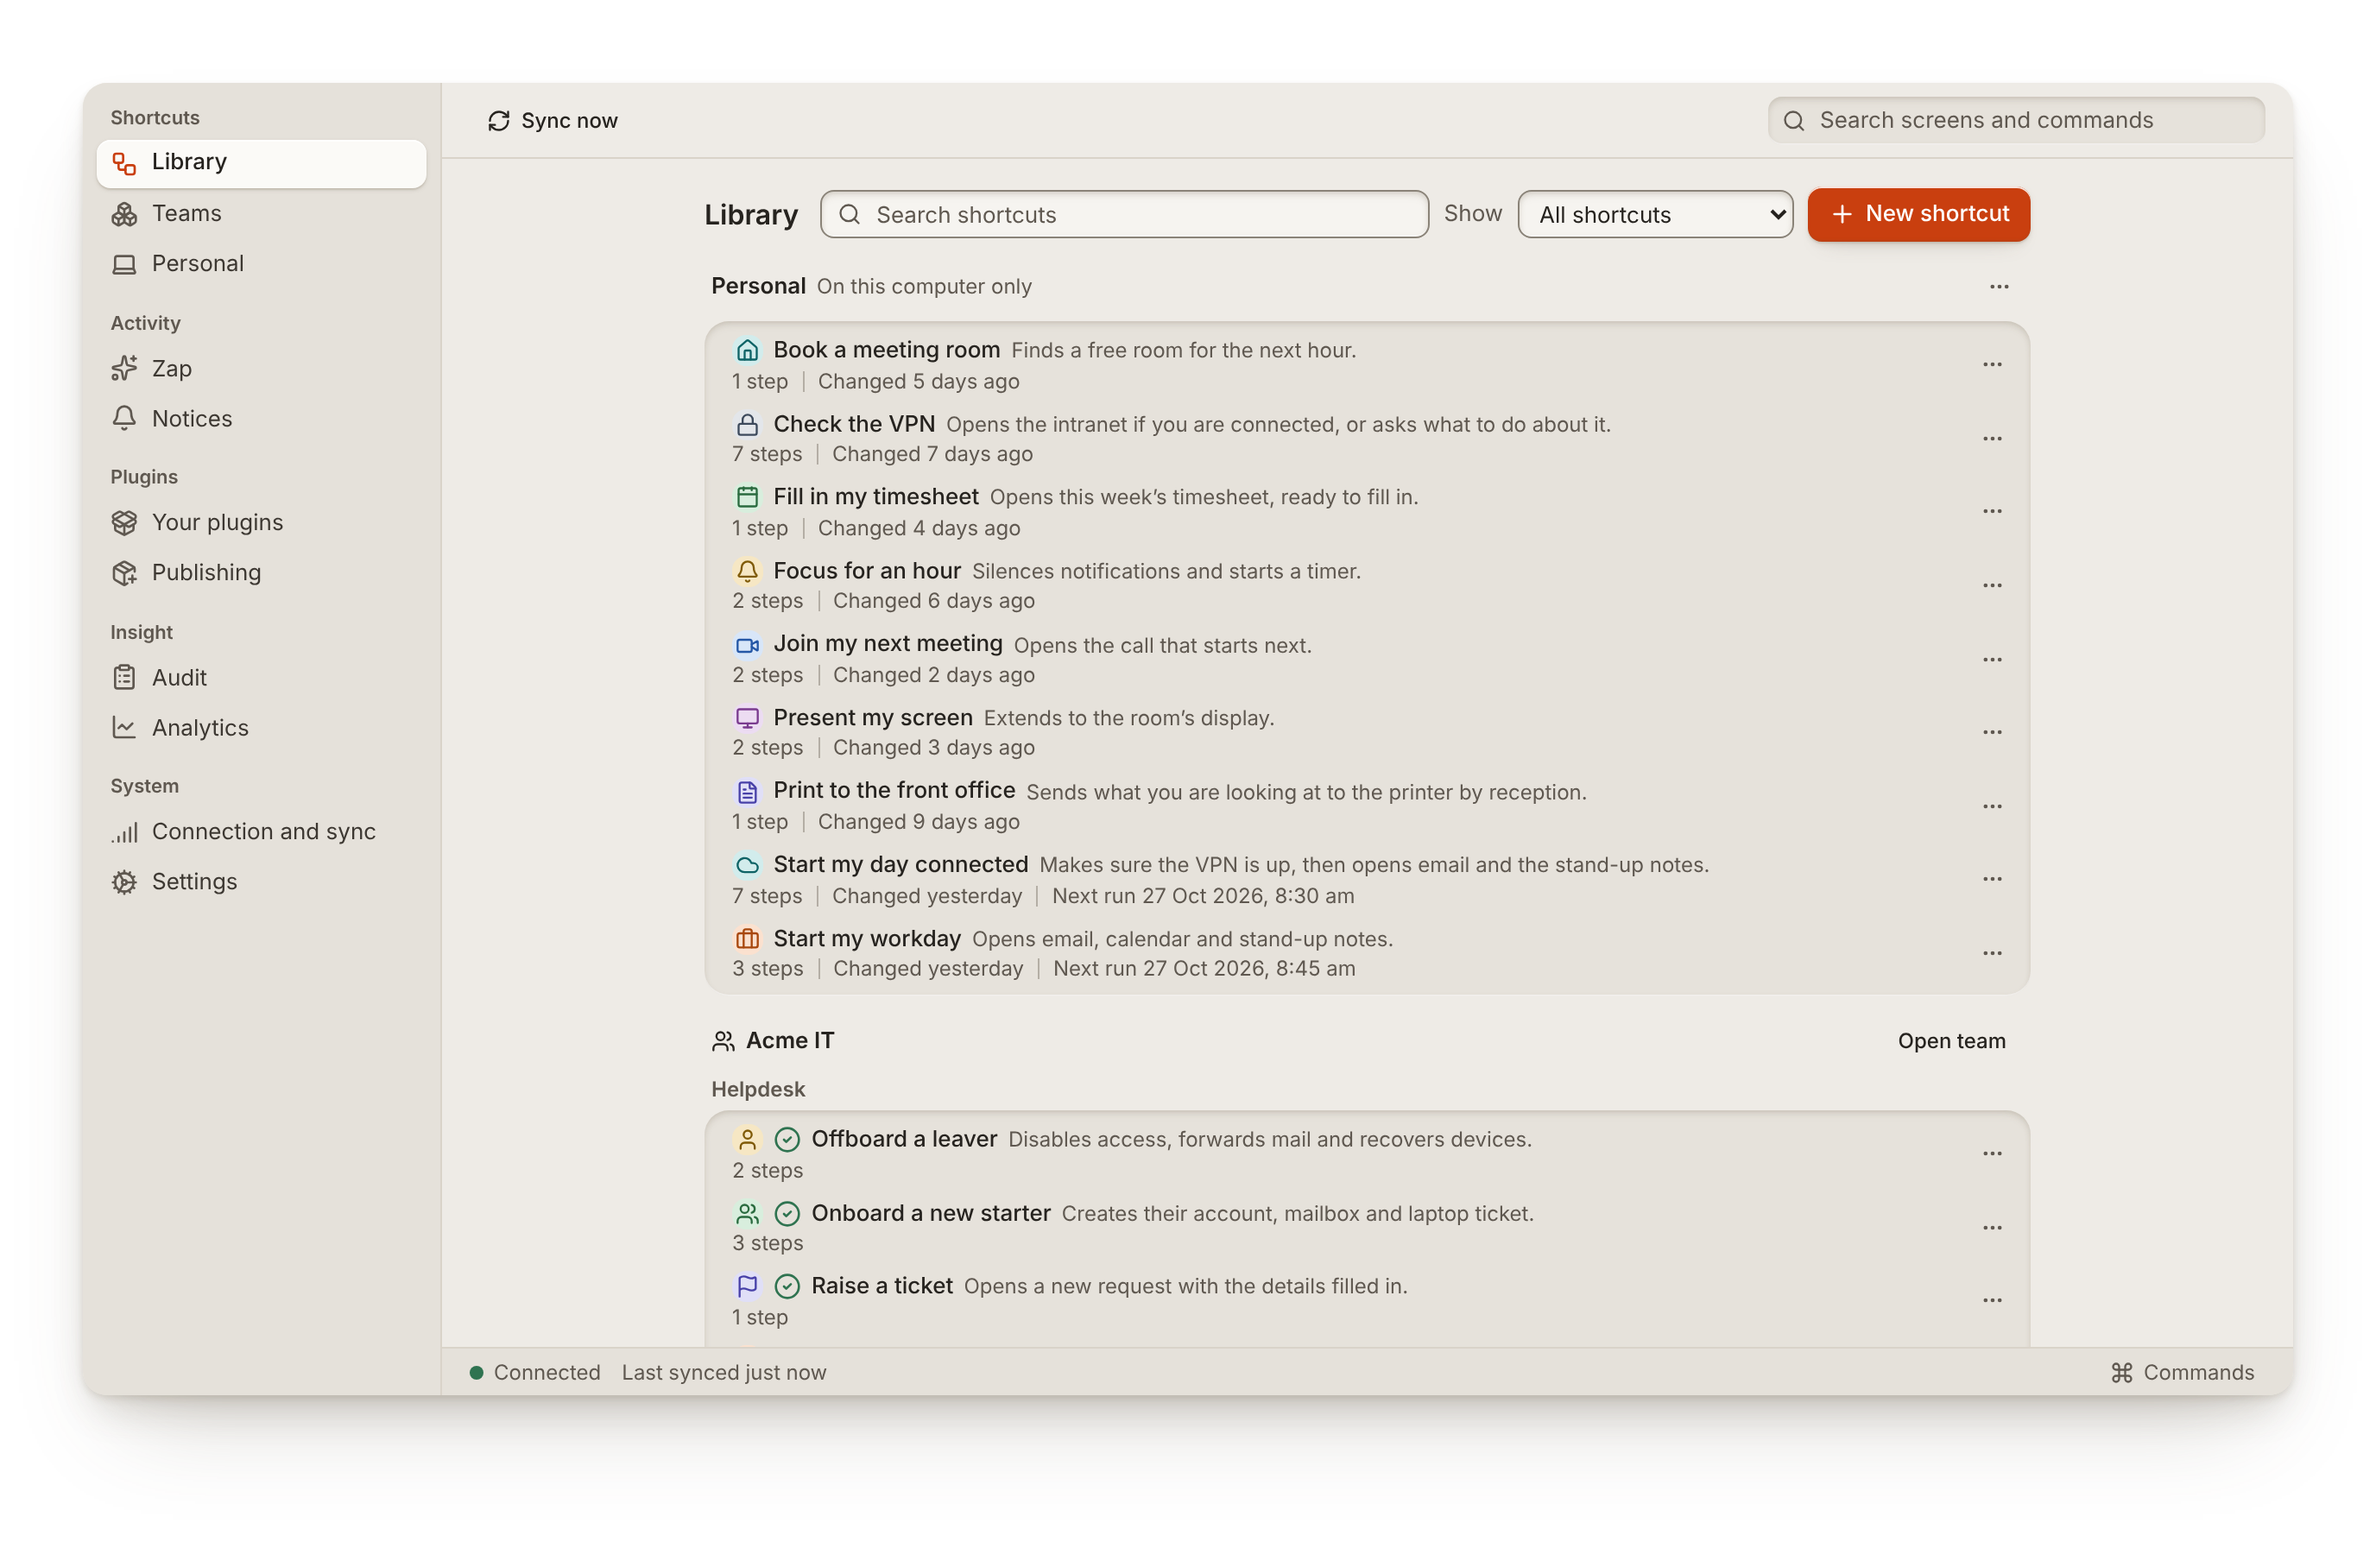
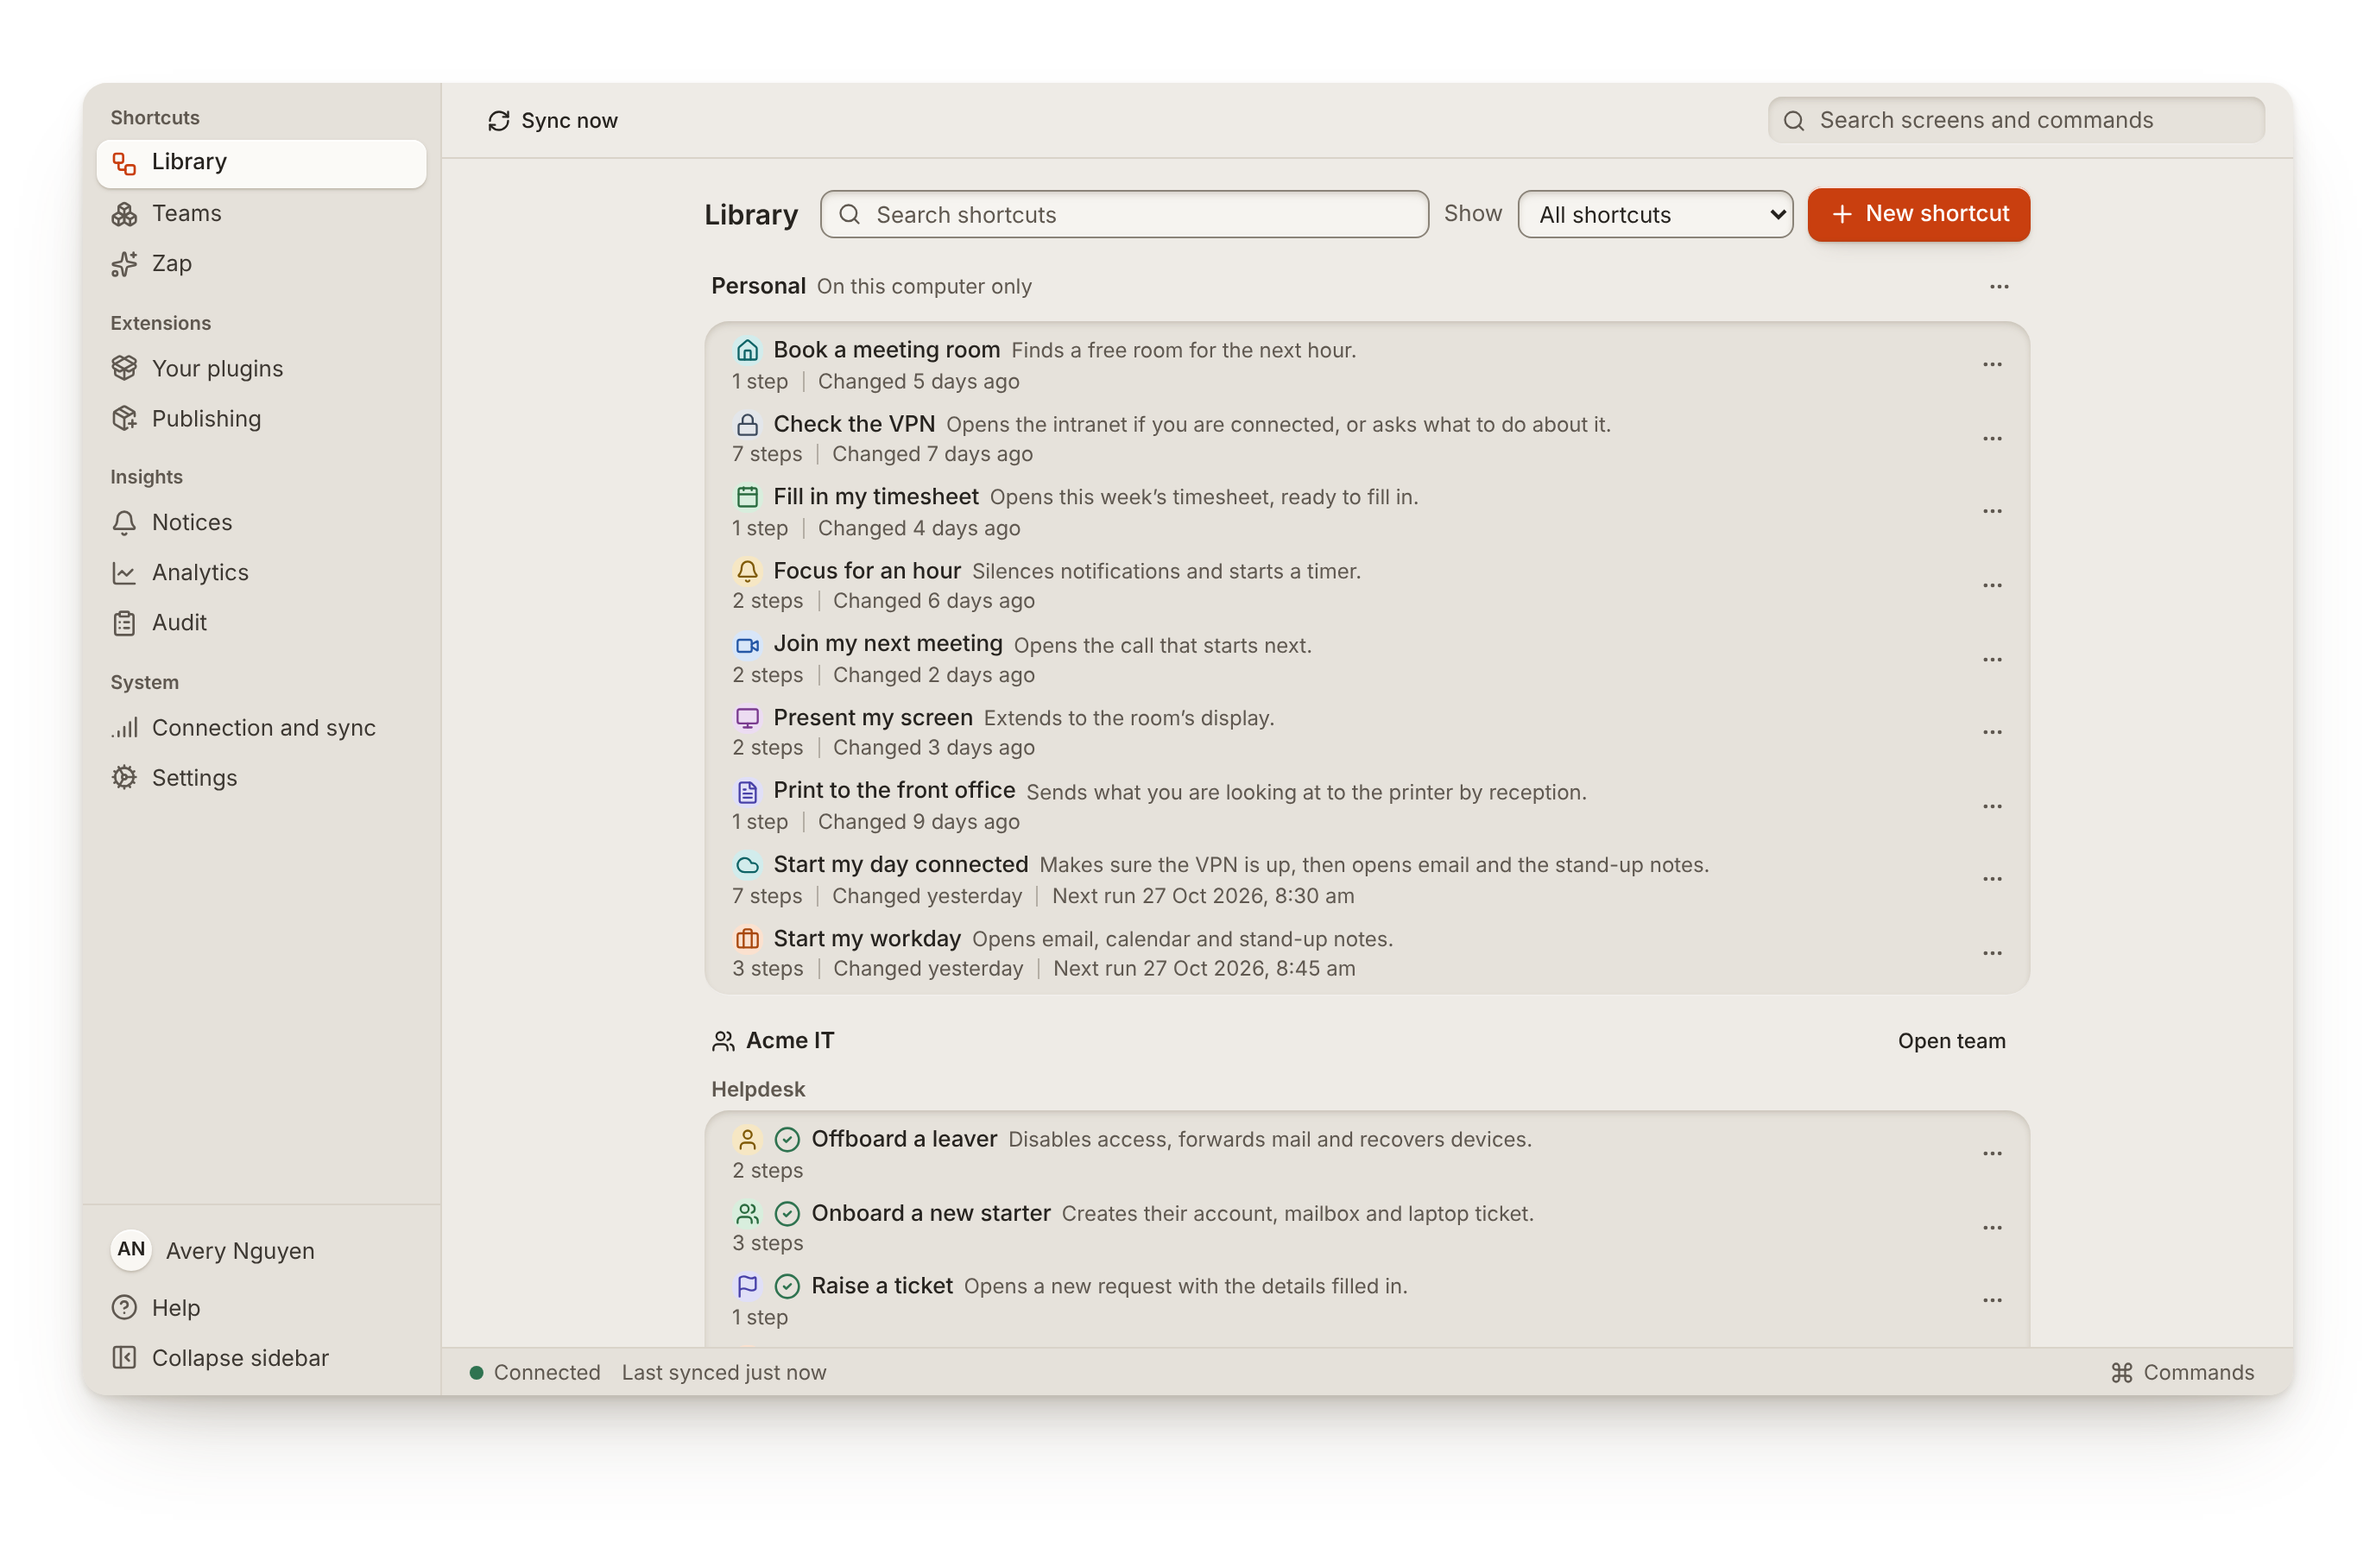
feat(home): show the launcher as a list and a grid at once
The hero's two launcher pictures took turns in one place, crossfading,
inside one trigger. Opening it enlarged whichever was in front, and the
other never reached the picture viewer. They now overlap, the grid
behind and the list in front, each its own trigger: either opens on its
own, both are in the viewer's gallery, and the one under the pointer or
the focus comes forward. The crossfade component, its CSS and the
viewer's special case for it are removed.

The app's pictures are captured again with its new sidebar: the Library,
the editor tour and Run history. The Library's alt text describes the
new sidebar, the caption names both layouts, both are translated into
every language, and docs/site-copy.md is re-exported.

Claude-Session: https://claude.ai/code/session_015oqJjgfuehMPdBxQe1PKHm

diff --git a/worker/index.css b/worker/index.css
@@ -850,41 +850,31 @@
     }
   }
 
-  /* Two slides stacked in one grid cell, taking turns. Each runs the same
-     cycle (`--shot-hold` each, so twice that in all) and slide `--i` is
-     started `--i` holds late, via a negative delay so nothing is visible out
-     of turn on load. The keyframes below are written for exactly two. */
-  .shot-swap {
-    --shot-hold: 5s;
+  /* The hero's two launcher pictures, overlapping: the grid behind and to the
+     right, the list in front and lower. One grid cell, so the box is as tall
+     as the two together and nothing is positioned out of flow. Each is its
+     own picture to open, so the one under the pointer or the focus comes
+     forward — the back one can be read before it is opened. The pictures
+     carry their own shadow margin, so the overlap looks smaller than it is. */
+  .shot-stack {
     display: grid;
   }
-  .shot-slide {
+  .shot-stack > * {
     grid-area: 1 / 1;
-    align-self: center;
-    animation: shot-swap calc(var(--shot-hold) * var(--n)) ease-in-out infinite;
-    animation-delay: calc(var(--shot-hold) * (var(--i) - var(--n)));
+    width: 80%;
   }
-  @media (prefers-reduced-motion: reduce) {
-    .shot-slide {
-      animation: none !important;
-    }
-    .shot-slide:not(:first-child) {
-      display: none;
-    }
+  .shot-stack > :first-child {
+    justify-self: end;
+    align-self: start;
   }
-}
-
-@keyframes shot-swap {
-  0%,
-  44% {
-    opacity: 1;
+  .shot-stack > :last-child {
+    justify-self: start;
+    margin-top: 22%;
+    z-index: 1;
   }
-  50%,
-  94% {
-    opacity: 0;
-  }
-  100% {
-    opacity: 1;
+  .shot-stack > :hover,
+  .shot-stack > :focus-within {
+    z-index: 2;
   }
 }
 

diff --git a/worker/views/pages/Home.tsx b/worker/views/pages/Home.tsx
@@ -23,7 +23,6 @@ import {
   CheckItem,
   LogoBricks,
   Screenshot,
-  ScreenshotSwap,
   Disclosure,
 } from "@views/components/Ui";
 
@@ -47,7 +46,13 @@ import {
  */
 
 /**
- * The hero: the launcher itself, in its two layouts, taking turns.
+ * The hero: the launcher itself, in its two layouts at once.
+ *
+ * They used to take turns in one place, crossfading, which made the picture a
+ * lottery to open: a click enlarged whichever was in front, and the other was
+ * never in the viewer at all. Now each is its own picture, overlapping, so
+ * either opens on its own, both are in the viewer's gallery, and the page says
+ * at a glance that there are two ways to see your shortcuts.
  *
  * It used to be a drawing, because there was nothing to photograph.
  * Now there is, and a picture of the real thing answers "what is this?"
@@ -82,10 +87,17 @@ const HeroPanel: FC = () => (
       ></span>
     </span>
 
-    <ScreenshotSwap ids={["overlay-list", "overlay-grid"]} class="relative" />
+    <div class="shot-stack relative">
+      <div>
+        <Screenshot id="overlay-grid" />
+      </div>
+      <div>
+        <Screenshot id="overlay-list" eager />
+      </div>
+    </div>
 
-    <p class="-mt-8 text-center text-xs text-muted-foreground">
-      The Zipr launcher, with some example shortcuts.
+    <p class="-mt-6 text-center text-xs text-muted-foreground">
+      The Zipr launcher as a list and as a grid, with some example shortcuts.
     </p>
   </div>
 );

diff --git a/worker/components/lib/lightbox.ts b/worker/components/lib/lightbox.ts
@@ -26,20 +26,11 @@ import { ChevronLeft, ChevronRight, createElement, X, ZoomIn, ZoomOut } from "lu
  *  high-density screen then shows every pixel and no more. */
 const PIXELS_PER_POINT = 2;
 
-const opacityOf = (img: HTMLImageElement) => {
-  // The home hero crossfades two screenshots; enlarge whichever is showing.
-  const slide = img.closest<HTMLElement>(".shot-slide");
-  return slide ? Number.parseFloat(getComputedStyle(slide).opacity) : 1;
-};
-
-/** The picture a trigger is showing right now: the current theme's, and the
- *  slide currently in front. */
-const shownImage = (trigger: HTMLElement) => {
-  const imgs = Array.from(trigger.querySelectorAll<HTMLImageElement>("img")).filter(
+/** The picture a trigger is showing: the current theme's. */
+const shownImage = (trigger: HTMLElement) =>
+  Array.from(trigger.querySelectorAll<HTMLImageElement>("img")).find(
     (img) => img.getClientRects().length > 0,
-  );
-  return imgs.sort((a, b) => opacityOf(b) - opacityOf(a))[0] ?? null;
-};
+  ) ?? null;
 
 const slideFor = (img: HTMLImageElement): SlideData => {
   const src = img.currentSrc || img.src;

diff --git a/worker/views/components/Ui.tsx b/worker/views/components/Ui.tsx
@@ -489,26 +489,3 @@ export const ZoomTrigger: FC<{ children?: Child }> = ({ children }) => (
     {children}
   </button>
 );
-
-/**
- * Two screenshots taking turns in one place, crossfading.
- *
- * Pure CSS: every slide animates on the same cycle, offset by its place in
- * the line, so there is nothing to start, stop or fall out of step. The slides
- * share one grid cell, so the box is as tall as the tallest and does not
- * resize as they change. With reduced motion only the first is shown.
- */
-export const ScreenshotSwap: FC<{ ids: [ScreenshotId, ScreenshotId]; class?: string }> = ({
-  ids,
-  class: className = "",
-}) => (
-  <ZoomTrigger>
-    <div class={`shot-swap ${className}`} style={`--n: ${ids.length};`}>
-      {ids.map((id, i) => (
-        <div class="shot-slide" style={`--i: ${i};`}>
-          <Screenshot id={id} eager={i === 0} zoom={false} />
-        </div>
-      ))}
-    </div>
-  </ZoomTrigger>
-);

diff --git a/worker/content/site.ts b/worker/content/site.ts
@@ -148,7 +148,7 @@ export const SCREENSHOTS = {
   "app-shortcuts": {
     width: 2752,
     height: 1808,
-    alt: "The Zipr app's Library: a sidebar with Library, Teams and Personal, a search box with a filter, and your personal shortcuts — Book a meeting room, Check the VPN, Fill in my timesheet, Start my workday and more — each with its number of steps and when it last changed, above the shortcuts of your team, Acme IT, in its Helpdesk group.",
+    alt: "The Zipr app's Library: a sidebar grouping Library, Teams and Zap, plugins, insights and settings, with your account at its foot; a search box with a filter; and your personal shortcuts — Book a meeting room, Check the VPN, Fill in my timesheet, Start my workday and more — each with its number of steps and when it last changed, above the shortcuts of your team, Acme IT, in its Helpdesk group.",
   },
   zap: {
     width: 2392,

diff --git a/CHANGELOG.md b/CHANGELOG.md
@@ -11,6 +11,20 @@ runs underneath. Changes to the site itself go above them.
 
 ### The site
 
+- **The hero shows the launcher both ways at once.** Its two pictures, the
+  launcher as a list and as a grid, used to take turns in one place, so
+  opening one enlarged whichever happened to be in front and the other never
+  reached the picture viewer. They now overlap, the grid behind and the list
+  in front, and each is its own picture: either opens on its own, both are in
+  the viewer's gallery, and the one under the pointer or the focus comes
+  forward so the back one can be read before it is opened. The caption says
+  there are two layouts. The crossfade it replaces is gone, with the viewer's
+  special case for it.
+- **The app's pictures show its new sidebar.** The Library, the editor tour
+  and Run history are captured again from the app, with the sidebar grouped
+  into Shortcuts, Extensions, Insights and System and the account, help and
+  collapse at its foot. The Library's description says so, in every language,
+  and `docs/site-copy.md` is re-exported.
 - **Pictures open in PhotoSwipe.** The enlarged-picture viewer was a plain
   dialog showing one picture at a time; it is now PhotoSwipe, so a picture
   grows out of its place on the page, the page's pictures can be stepped

diff --git a/docs/site-copy.md b/docs/site-copy.md
@@ -92,10 +92,6 @@ Português (Brasil) ✓
 
 **[NAV-18]** _text_
 
-Translated automatically. If something reads oddly, the English is the original. The privacy notice and licence are only in English.
-
-**[NAV-19]** _text_
-
 Download
 
 **[FOOT-01]** _text_
@@ -229,7 +225,7 @@ Browse the Gallery
 
 **[HOME-05]** _text_
 
-The Zipr launcher, with some example shortcuts.
+The Zipr launcher as a list and as a grid, with some example shortcuts.
 
 **[HOME-06]** _list item_
 
